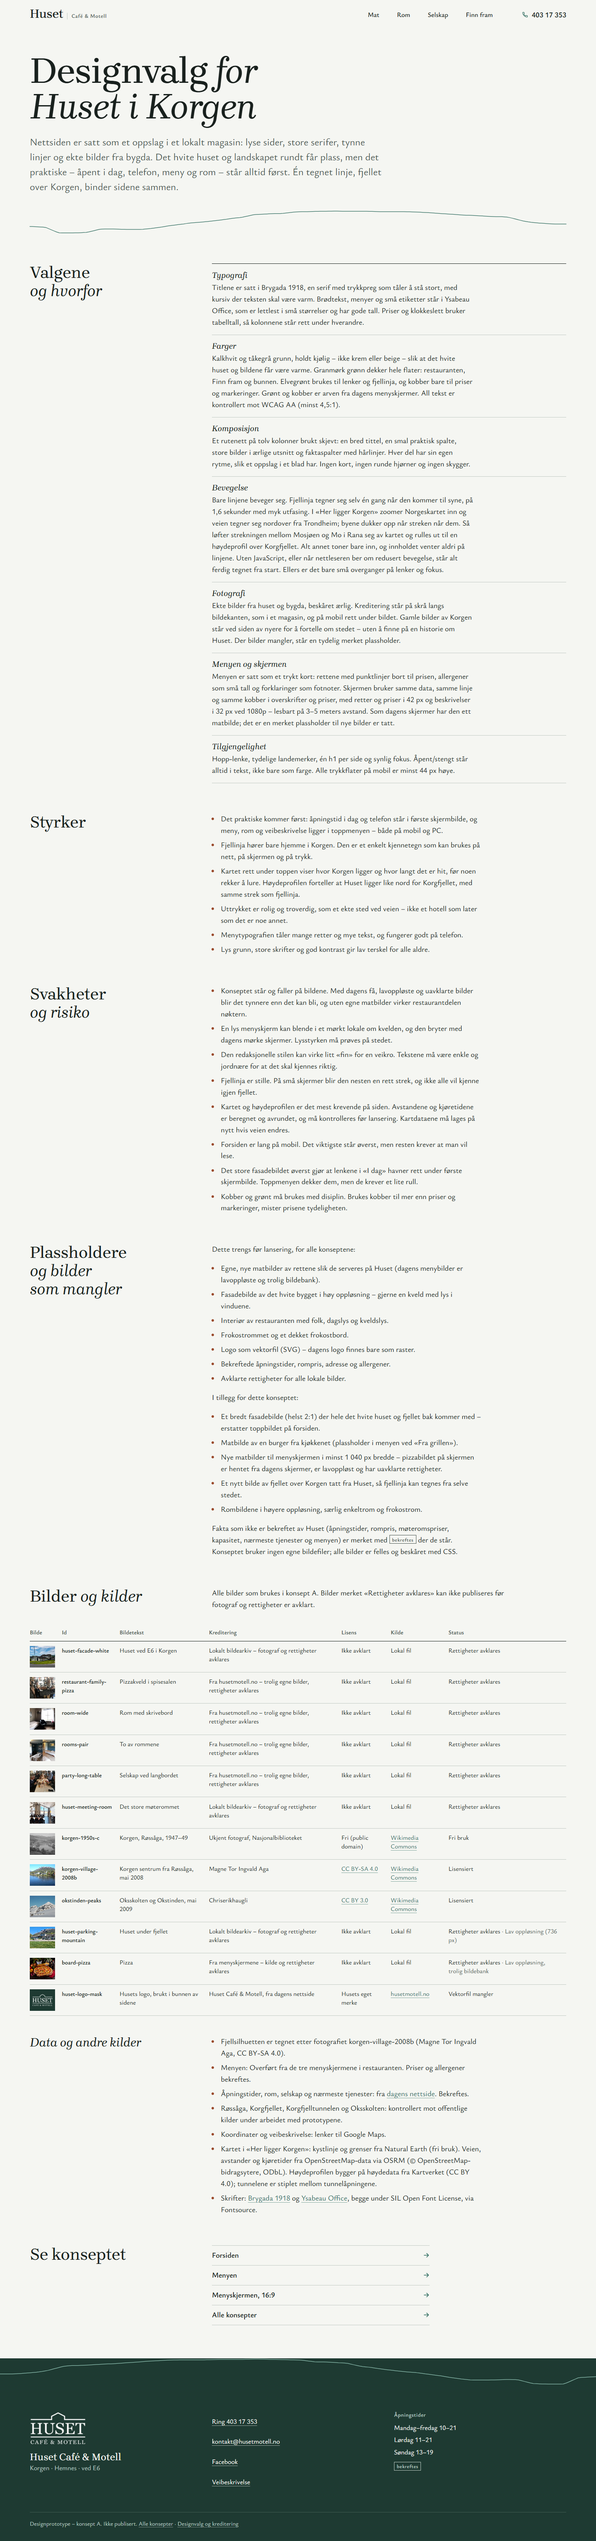
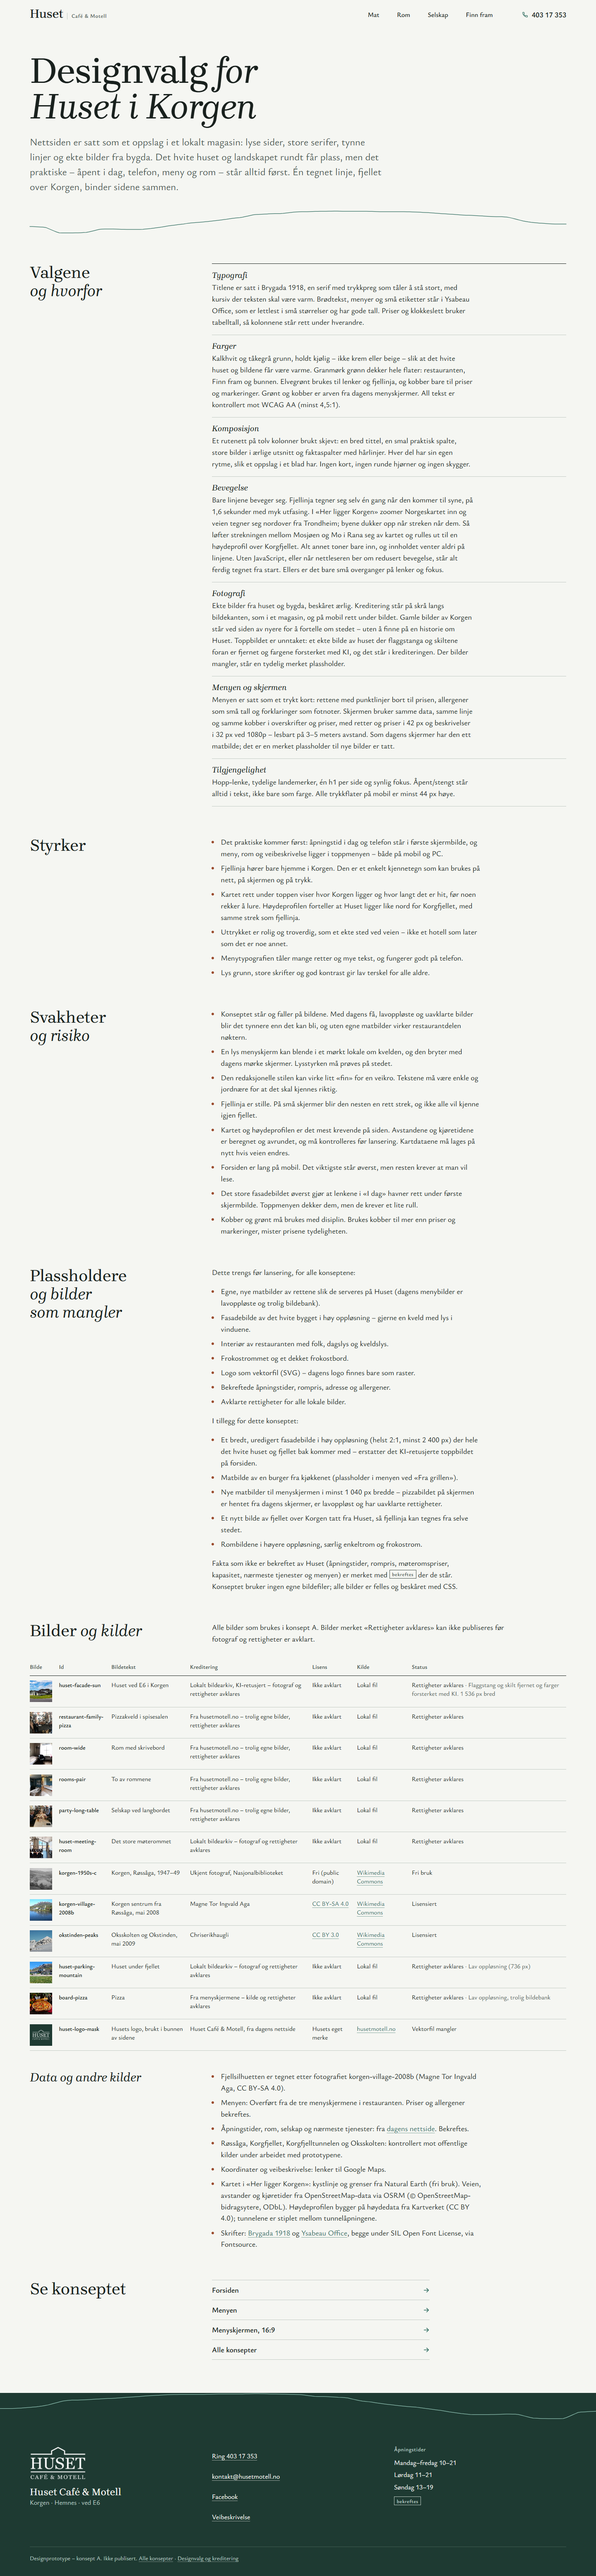
Konsept A: solskinnsbildet som toppbilde
Eierens KI-retusjerte kopi av fasadebildet (flaggstang og skilt fjernet,
farger forsterket). Merket som KI-retusjert i krediteringen, og regelen
om retusjerte bilder i DESIGN.md er justert.

Copilot-Session: bb98ac28-2698-4a9c-a113-55c8e110cf17

diff --git a/redesign/src/data/credits.ts b/redesign/src/data/credits.ts
@@ -43,6 +43,14 @@ const list: Photo[] = [
     credit: LOCAL, status: 'avklares',
   },
   {
+    // Owner-supplied retouch of huset-facade-white (same shot).
+    id: 'huset-facade-sun', w: 1536, h: 1024, widths: [1536, 800],
+    alt: 'Huset Café & Motell i sol: et langt, hvitt bygg med mørkt tak bak en grønn plen ved veien, med skog og fjell bak.',
+    caption: 'Huset ved E6 i Korgen',
+    credit: 'Lokalt bildearkiv, KI-retusjert – fotograf og rettigheter avklares', status: 'avklares',
+    warning: 'Flaggstang og skilt fjernet og farger forsterket med KI. 1 536 px bred',
+  },
+  {
     id: 'huset-entrance', w: 945, h: 1000, widths: [800],
     alt: 'Inngangen til Huset med skiltet «Huset Café & Motell», to hvite dører og blomsterkasser.',
     caption: 'Inngangen',

diff --git a/DESIGN.md b/DESIGN.md
@@ -231,7 +231,7 @@ Square corners throughout (`rounded.none`). Lines are 1px. Dot leaders (a 1.8px 
 
 ### Masthead (homepage)
 - **Order:** the dateline; then the skyline rule and a photograph of the white house from the road, both full bleed, with the skyline sitting directly on the photo's top edge; then the H1 and its stand (columns 1–7) beside the «I dag» column (columns 8–12).
-- **Photo:** the facade crop at about half the viewport height (clamp 18.75–37.5rem, 52.5svh; 15–21.25rem on phones), focal point 50% 56%.
+- **Photo:** the owner's sunny facade shot (`huset-facade-sun`, an AI-retouched copy of `huset-facade-white` with the flagpole and signs removed), cropped at about half the viewport height (clamp 18.75–37.5rem, 52.5svh; 15–21.25rem on phones), focal point 50% 56%.
 - **Below 64rem:** H1, then «I dag», then the stand, stacked.
 
 ### Masthead dateline
@@ -304,5 +304,5 @@ Square corners throughout (`rounded.none`). Lines are 1px. Dot leaders (a 1.8px 
 - **Don't** use cards or card grids, on any surface.
 - **Don't** use copper for anything but prices, the current state and the here-mark (headings on the menu board excepted).
 - **Don't** set labels in uppercase or put an eyebrow above a heading.
-- **Don't** use stock or AI-generated or retouched imagery of the house or the landscape; use a placeholder instead.
+- **Don't** use stock or AI-generated imagery of the house or the landscape; use a placeholder instead. The one exception is a real photo that the owner has retouched (clutter removed, colour lifted), such as the masthead photo, and its credit must say «KI-retusjert».
 - **Don't** turn the skyline into a pattern, a wave, a filled mountain or a logo.
